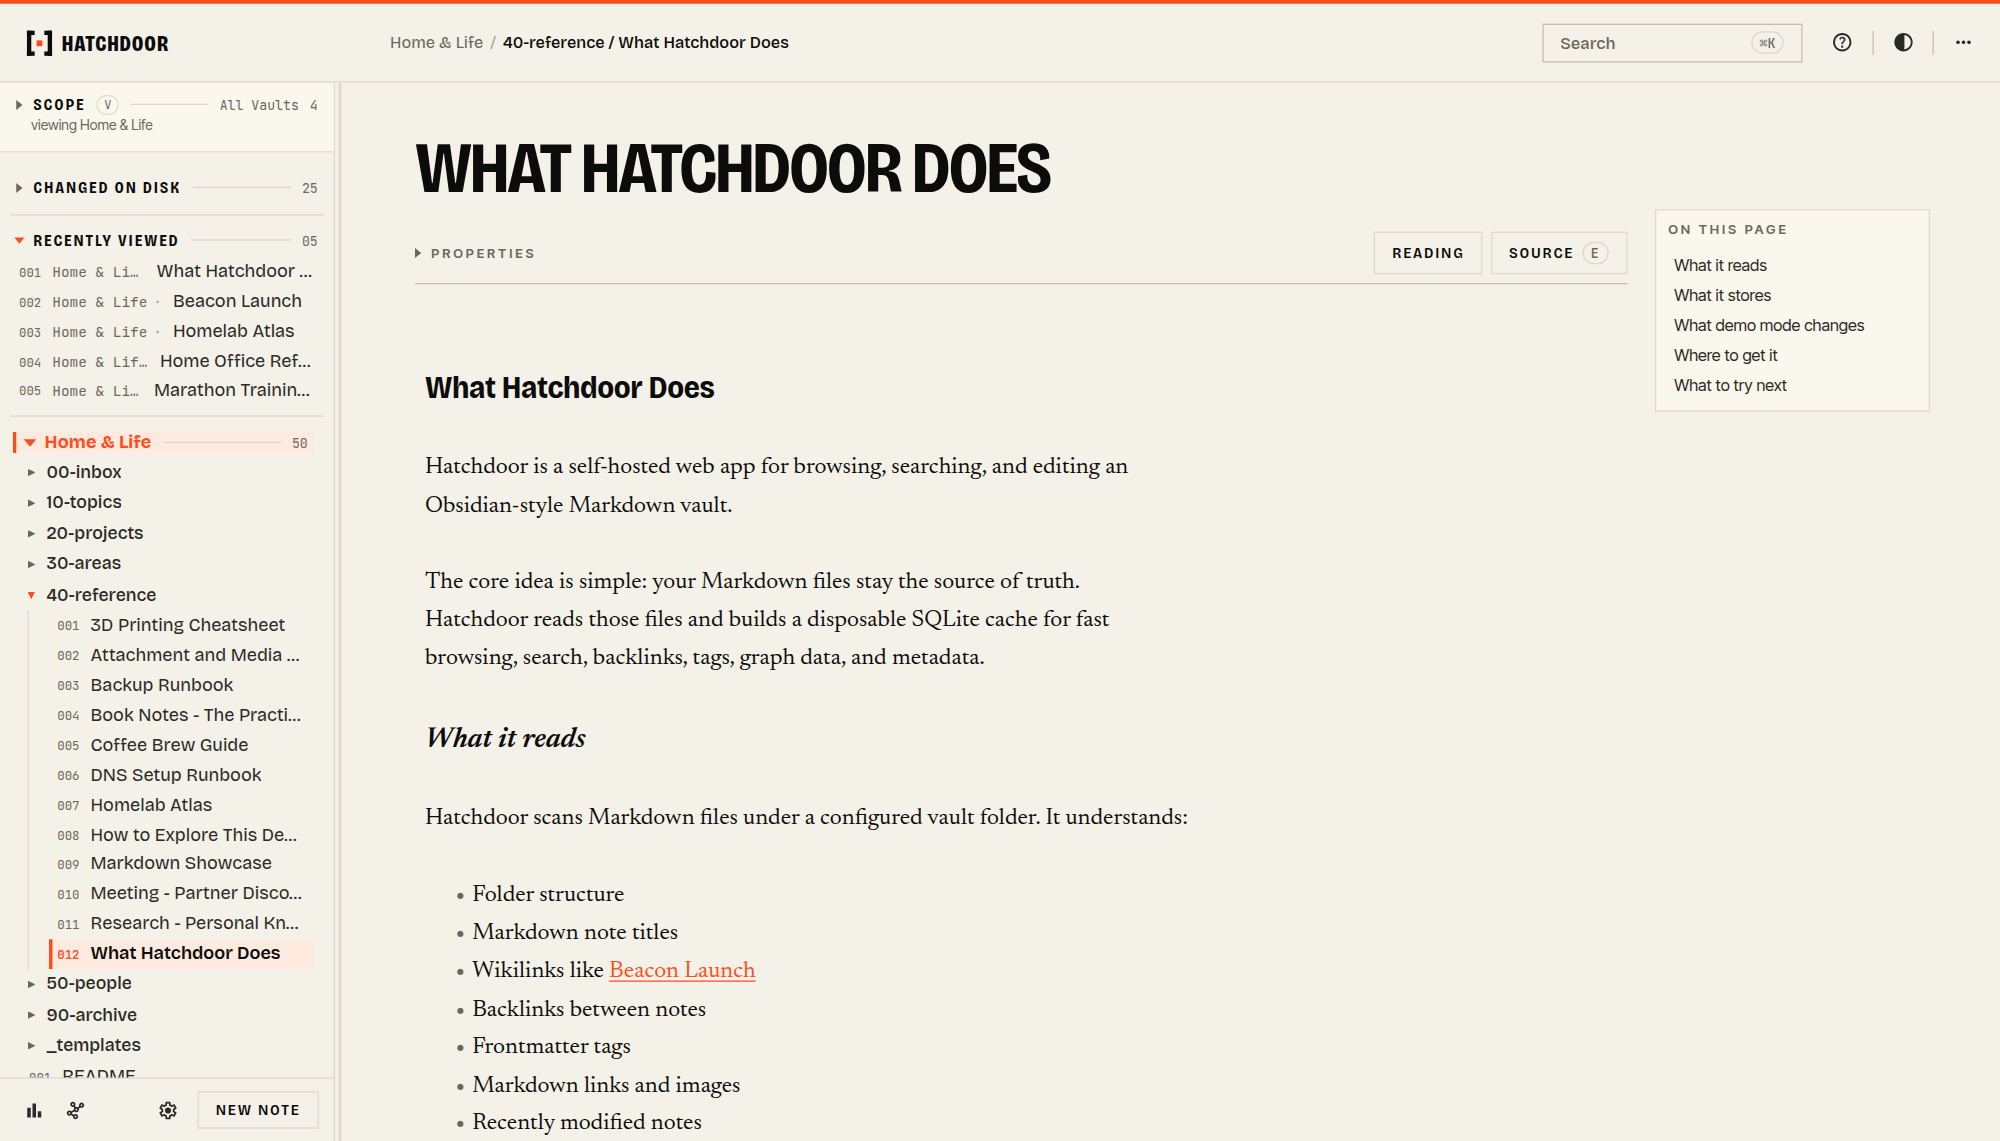
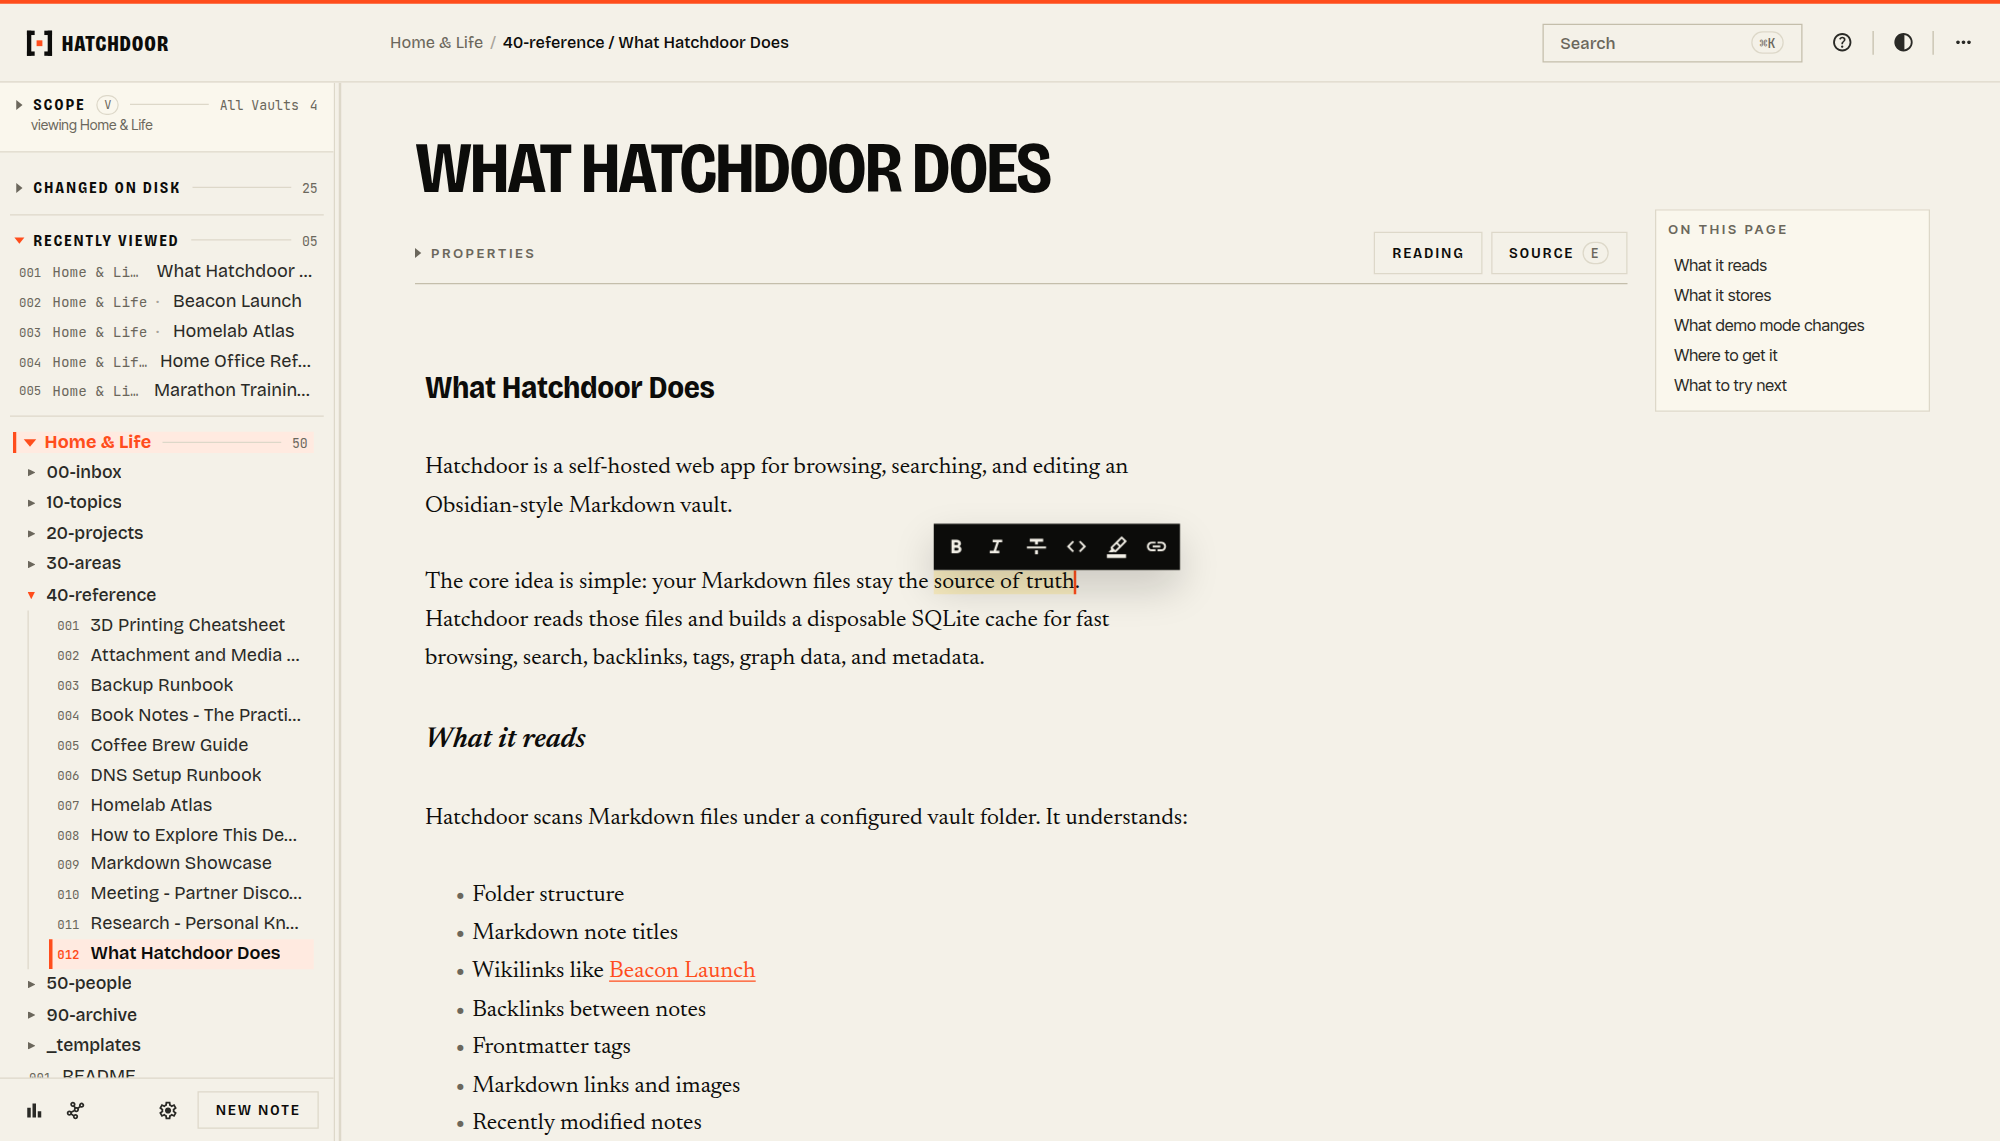
docs: show the formatting toolbar in the README hero
The light hero now has a phrase selected, so the floating toolbar is
on screen. Captured with the toolbar colour fix from #556 applied.

Claude-Session: https://claude.ai/code/session_0164JGPDMbcS22dXYHjDSkE5

Changed region(s): [[0.465, 0.4601, 0.589, 0.5215]]

diff --git a/README.md b/README.md
@@ -40,7 +40,7 @@ under close human review, with tests and a documented safety model.
 <p align="center">
   <a href="https://hatchdoor.battercloud.cc">
     <img src="assets/screenshots/hero-light.png" width="900"
-      alt="Hatchdoor browsing a note: vault explorer on the left, rendered Markdown with wikilinks in the centre, and an on-this-page outline on the right">
+      alt="Hatchdoor editing a note: vault explorer on the left, the live editor in the centre with its formatting toolbar over a selected phrase, and an on-this-page outline on the right">
   </a>
 </p>
 
